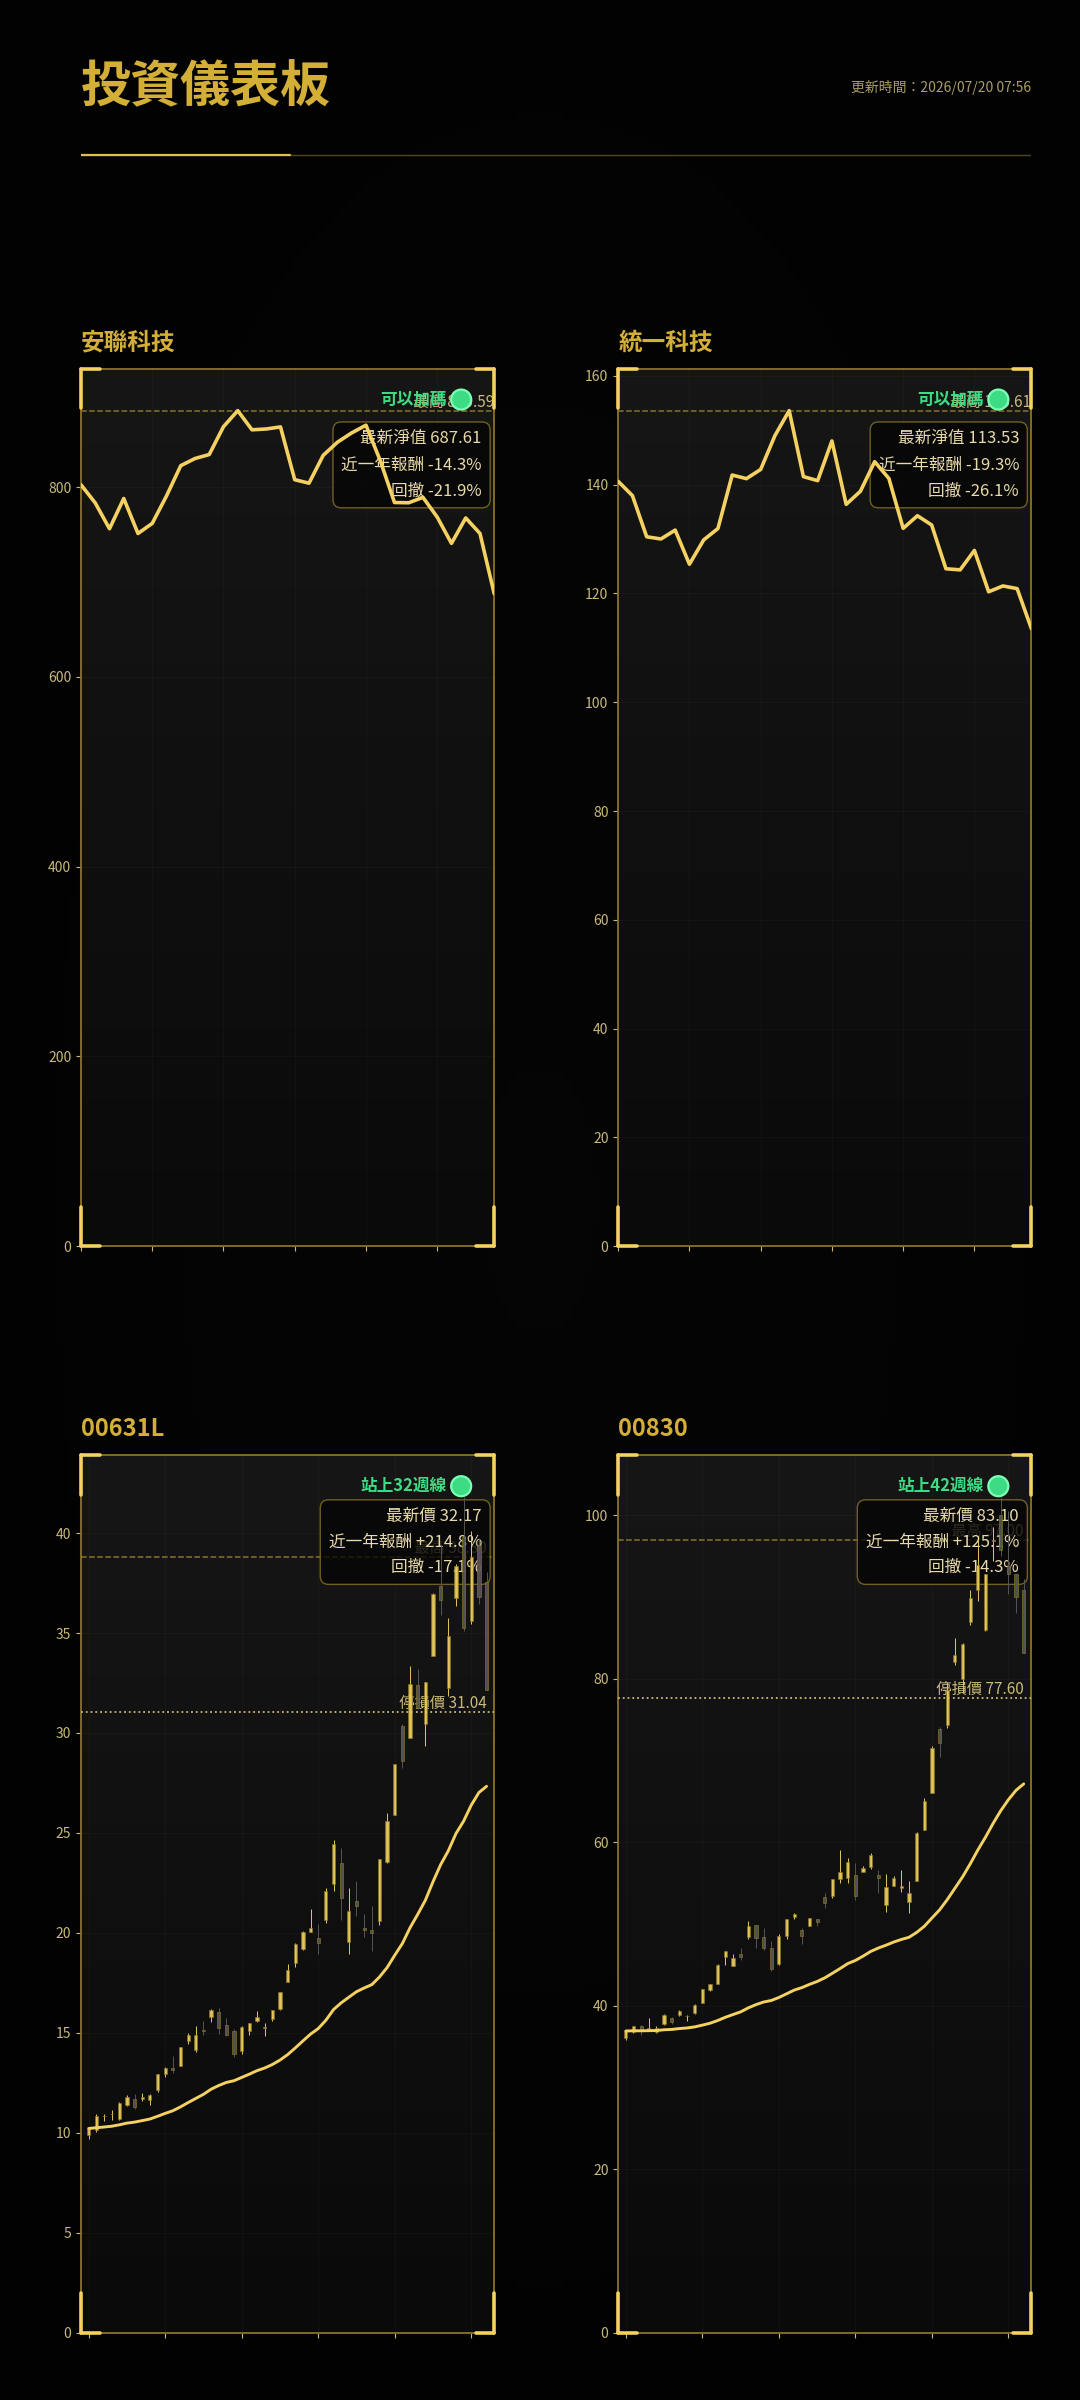
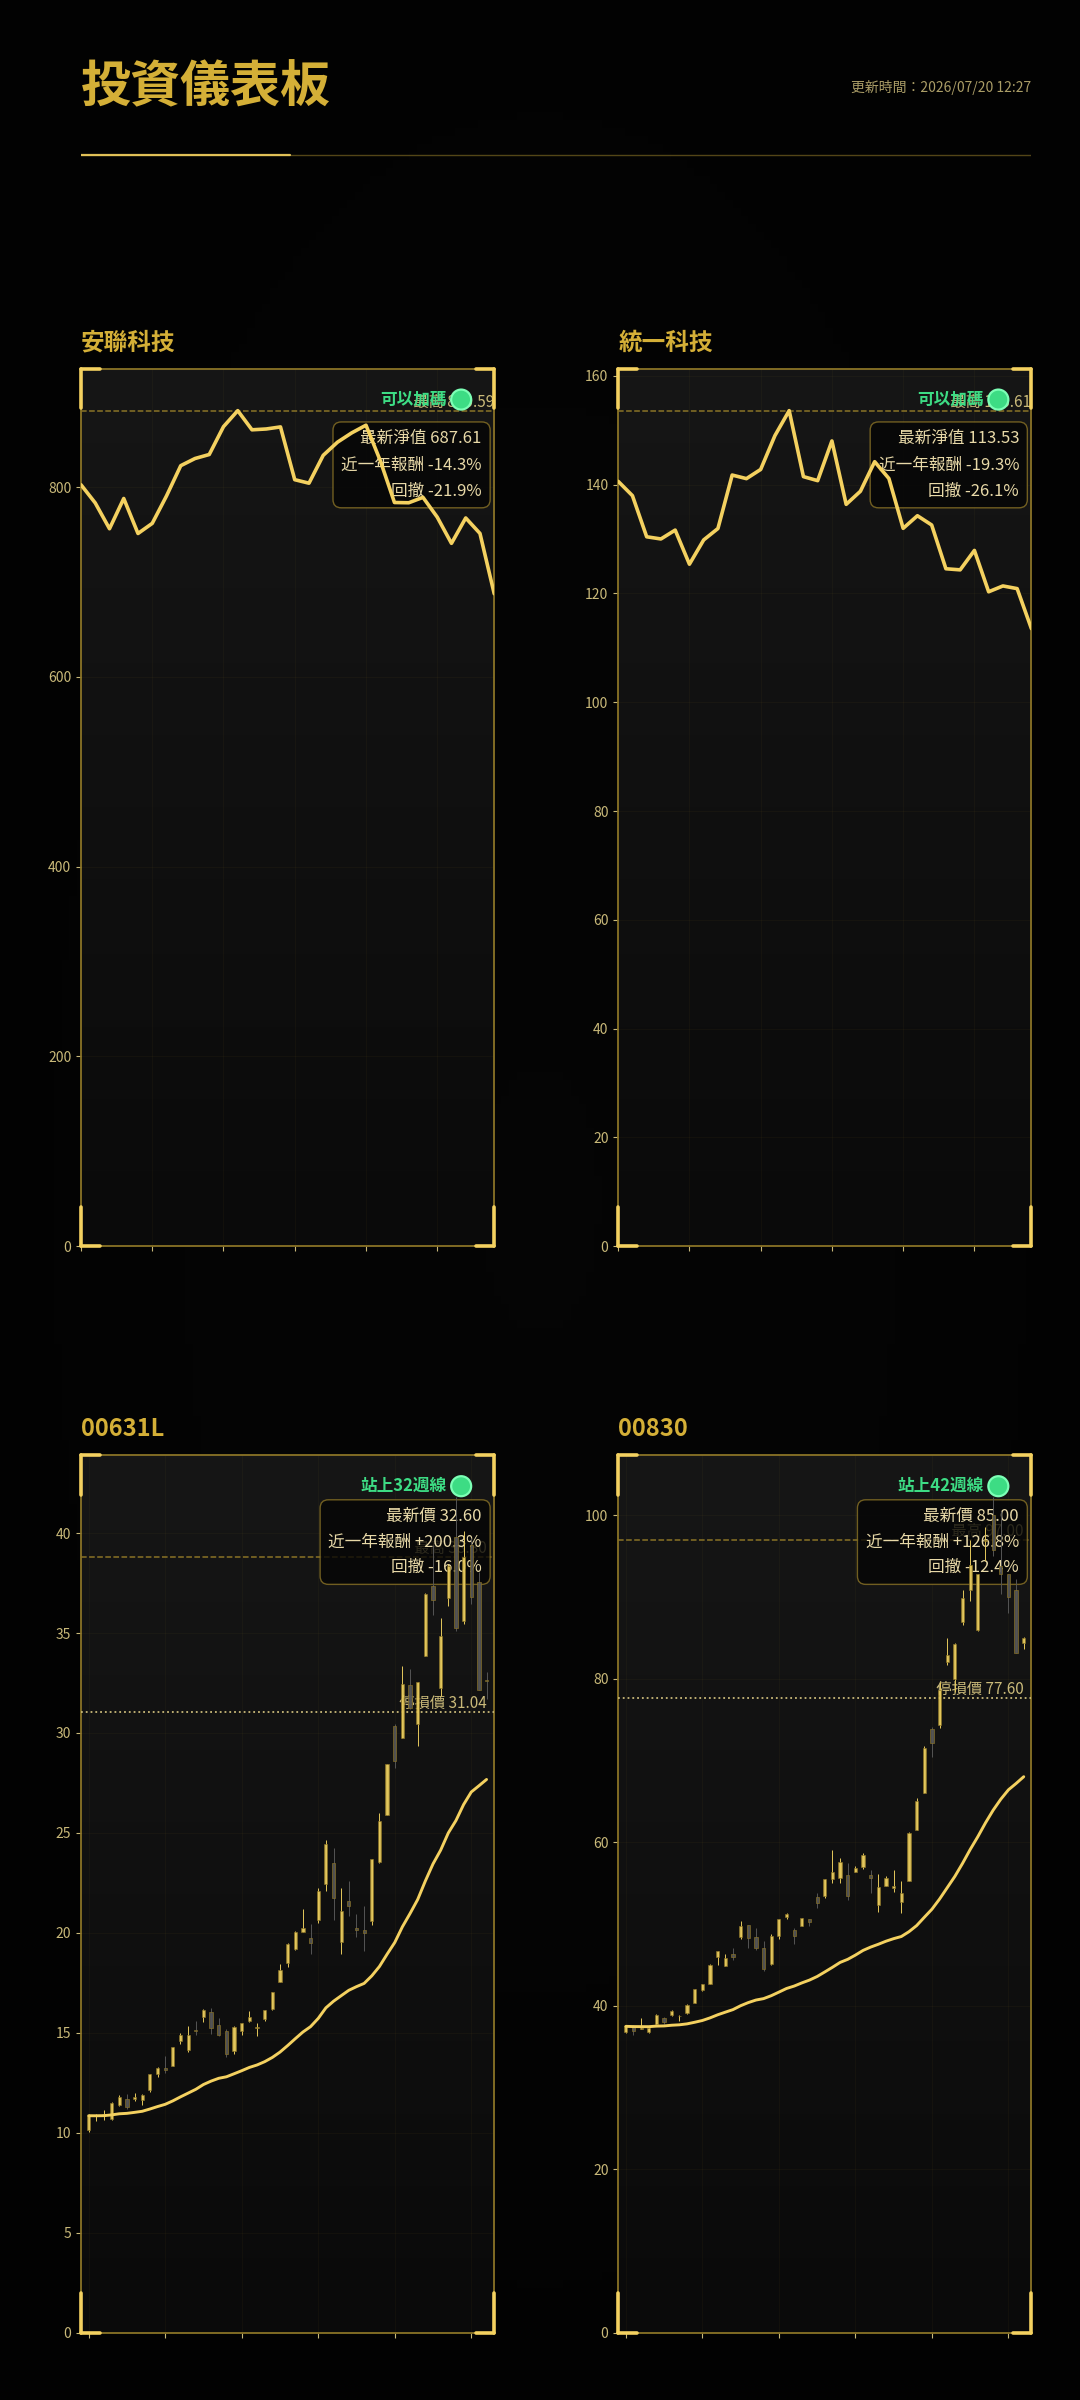
更新桌布

diff --git a/dashboard.py b/dashboard.py
@@ -286,7 +286,6 @@ def fetch_fund(url):
 
 def fetch_etf(ticker):
     data = pd.DataFrame()
-    raw_data = pd.DataFrame()
     last_error = None
 
     for attempt in range(3):
@@ -301,17 +300,7 @@ def fetch_etf(ticker):
                 timeout=30
             )
 
-            raw_data = yf.download(
-                ticker,
-                period='18mo',
-                interval='1d',
-                auto_adjust=False,
-                progress=False,
-                threads=False,
-                timeout=30
-            )
-
-            if not data.empty and not raw_data.empty:
+            if not data.empty:
                 break
 
         except Exception as error:
@@ -324,7 +313,7 @@ def fetch_etf(ticker):
 
         time.sleep(3)
 
-    if data.empty or raw_data.empty:
+    if data.empty:
         if last_error is not None:
             raise RuntimeError(
                 f'{ticker} 無資料：{last_error}'
@@ -336,9 +325,6 @@ def fetch_etf(ticker):
 
     if isinstance(data.columns, pd.MultiIndex):
         data.columns = data.columns.get_level_values(0)
-
-    if isinstance(raw_data.columns, pd.MultiIndex):
-        raw_data.columns = raw_data.columns.get_level_values(0)
 
     required_columns = ['Open', 'High', 'Low', 'Close']
 
@@ -354,7 +340,6 @@ def fetch_etf(ticker):
         )
 
     data = data[required_columns].dropna()
-    daily_raw_close = raw_data['Close'].dropna()
 
     weekly_data = pd.DataFrame({
         'Open': data['Open'].resample('W-FRI').first(),
@@ -363,11 +348,7 @@ def fetch_etf(ticker):
         'Close': data['Close'].resample('W-FRI').last()
     })
 
-    return {
-        'weekly': weekly_data.dropna().tail(53),
-        'daily_adj': data['Close'],
-        'daily_raw': daily_raw_close
-    }
+    return weekly_data.dropna().tail(53)
 
 
 def is_week_complete(period_end):
@@ -389,58 +370,6 @@ def stats(series):
     return_rate = latest / float(series.iloc[0]) - 1
 
     return latest, high, drawdown, return_rate
-
-
-def date_based_stats(dates, values):
-    """
-    以「去年今天」到「今天」為基準計算報酬率與回撤。
-    若去年今天當天不是交易日，自動改用前一個交易日的資料。
-    """
-    series = (
-        pd.Series(list(values), index=pd.DatetimeIndex(dates))
-        .sort_index()
-    )
-    series = series[~series.index.duplicated(keep='last')].dropna()
-
-    latest_date = series.index[-1]
-    latest = float(series.iloc[-1])
-
-    one_year_ago = latest_date - pd.DateOffset(years=1)
-
-    base_slice = series[series.index <= one_year_ago]
-
-    if not base_slice.empty:
-        base_value = float(base_slice.iloc[-1])
-        window_start = base_slice.index[-1]
-    else:
-        base_value = float(series.iloc[0])
-        window_start = series.index[0]
-
-    window = series[series.index >= window_start]
-    high = float(window.max())
-
-    return_rate = latest / base_value - 1
-    drawdown = latest / high - 1
-
-    return latest, high, drawdown, return_rate
-
-
-def latest_and_high(dates, values):
-    """近一年（今天往前一年）的最新值與最高值，用於顯示一般（未還原）價格。"""
-    series = (
-        pd.Series(list(values), index=pd.DatetimeIndex(dates))
-        .sort_index()
-    )
-    series = series[~series.index.duplicated(keep='last')].dropna()
-
-    latest_date = series.index[-1]
-    latest = float(series.iloc[-1])
-
-    window_start = latest_date - pd.DateOffset(years=1)
-    window = series[series.index >= window_start]
-    high = float(window.max())
-
-    return latest, high
 
 
 def card_backdrop(ax):
@@ -536,10 +465,7 @@ def style_card(ax):
 
 def plot_fund(ax, name, data, fig):
     x = np.arange(len(data))
-    latest, high, drawdown, return_rate = date_based_stats(
-        data['Date'],
-        data['Value']
-    )
+    latest, high, drawdown, return_rate = stats(data['Value'])
 
     style_card(ax)
 
@@ -550,13 +476,6 @@ def plot_fund(ax, name, data, fig):
         color=GOLD_BRIGHT,
         solid_capstyle='round',
         zorder=5
-    )
-
-    y_min, y_max = ax.get_ylim()
-    data_range = high - y_min
-    ax.set_ylim(
-        y_min - data_range * 0.12,
-        high + data_range * 0.14
     )
 
     ax.axhline(
@@ -591,7 +510,7 @@ def plot_fund(ax, name, data, fig):
 
     ax.text(
         0.97,
-        0.06,
+        0.93,
         (
             f'最新淨值 {latest:.2f}\n'
             f'近一年報酬 {return_rate:+.1%}\n'
@@ -599,7 +518,7 @@ def plot_fund(ax, name, data, fig):
         ),
         transform=ax.transAxes,
         ha='right',
-        va='bottom',
+        va='top',
         fontsize=12,
         color=TEXT,
         linespacing=1.7,
@@ -619,8 +538,7 @@ def plot_fund(ax, name, data, fig):
     ax.tick_params(labelbottom=False)
 
 
-def plot_etf(ax, name, etf_bundle, ema_period, fig):
-    data = etf_bundle['weekly']
+def plot_etf(ax, name, data, ema_period, fig):
     x = np.arange(len(data))
 
     ema = (
@@ -629,15 +547,8 @@ def plot_etf(ax, name, etf_bundle, ema_period, fig):
         .mean()
     )
 
-    latest, high = latest_and_high(
-        etf_bundle['daily_raw'].index,
-        etf_bundle['daily_raw'].values
-    )
-
-    _, _, drawdown, return_rate = date_based_stats(
-        etf_bundle['daily_adj'].index,
-        etf_bundle['daily_adj'].values
-    )
+    latest, high, drawdown, return_rate = stats(data['Close'])
+    stop = high * 0.8
 
     style_card(ax)
 
@@ -688,19 +599,23 @@ def plot_etf(ax, name, etf_bundle, ema_period, fig):
         zorder=6
     )
 
-    y_min, y_max = ax.get_ylim()
-    data_range = high - y_min
-    ax.set_ylim(
-        y_min - data_range * 0.12,
-        high + data_range * 0.14
-    )
-
     ax.axhline(high, lw=1.1, ls='--', color=GOLD_DIM, zorder=3)
+    ax.axhline(stop, lw=1.3, ls=':', color=TEXT_DIM, zorder=3)
 
     ax.text(
         len(x) - 1,
         high,
         f' 最高 {high:.2f}',
+        va='bottom',
+        ha='right',
+        fontsize=11,
+        color=TEXT_DIM
+    )
+
+    ax.text(
+        len(x) - 1,
+        stop,
+        f' 停損價 {stop:.2f}',
         va='bottom',
         ha='right',
         fontsize=11,
@@ -731,7 +646,7 @@ def plot_etf(ax, name, etf_bundle, ema_period, fig):
 
     ax.text(
         0.97,
-        0.06,
+        0.94,
         (
             f'最新價 {latest:.2f}\n'
             f'近一年報酬 {return_rate:+.1%}\n'
@@ -739,7 +654,7 @@ def plot_etf(ax, name, etf_bundle, ema_period, fig):
         ),
         transform=ax.transAxes,
         ha='right',
-        va='bottom',
+        va='top',
         fontsize=12,
         color=TEXT,
         linespacing=1.65,
@@ -795,7 +710,7 @@ def add_vignette(fig):
 def main():
     setup_font()
 
-    fig = plt.figure(figsize=(10.8, 23.4), dpi=100)
+    fig = plt.figure(figsize=(10.8, 24), dpi=100)
     fig.patch.set_facecolor(BG)
 
     add_vignette(fig)
@@ -803,13 +718,13 @@ def main():
     grid = fig.add_gridspec(
         3,
         2,
-        height_ratios=[0.42, 4.79, 4.79],
-        hspace=0.10,
-        wspace=0.06,
-        left=0.03,
-        right=0.97,
-        top=0.985,
-        bottom=0.010
+        height_ratios=[0.5, 4.75, 4.75],
+        hspace=0.34,
+        wspace=0.30,
+        left=0.075,
+        right=0.955,
+        top=0.972,
+        bottom=0.028
     )
 
     title_ax = fig.add_subplot(grid[0, :])
@@ -970,6 +885,5 @@ def main():
 
 if __name__ == '__main__':
     main()
-
 
 
